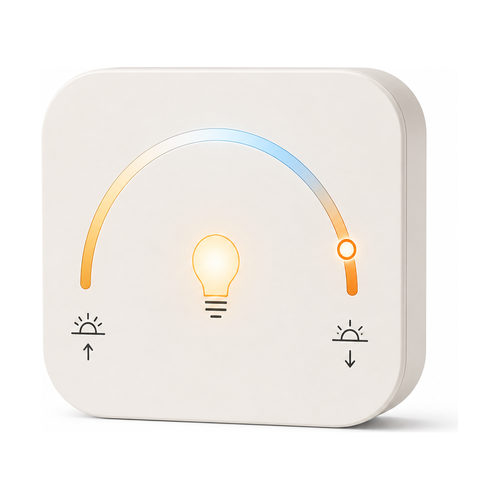
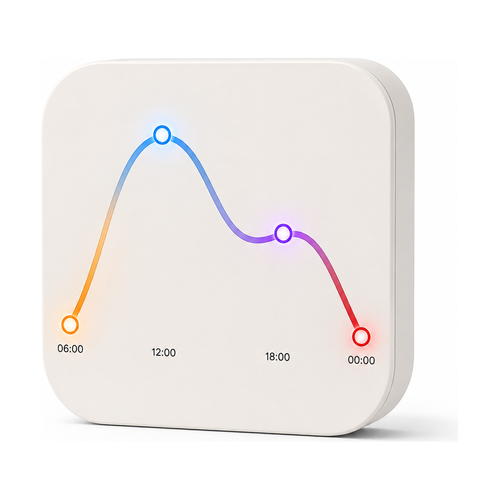
artwork: the Curve light gets its own, and no placeholders remain
The Curve light split out of the circadian light in 0.5.0 and shipped with that
driver's icon and picture. Athom's automated reviewer flags byte-identical
assets between drivers as reuse, so it was tracked as a review finding in four
places rather than tolerated. It now has its own masters and the finding is
closed: `PENDING_ARTWORK` in assets.test.ts is empty, and every icon is
compared against every other with no exemption.

The mark is a four-point curve over a row of hour ticks — deliberately not a
variation on the circadian arc, because the two device types say different
things: one hands you the shape of the day, the other hands you every point.
The picture is the same device body carrying that curve with four coloured
points. Canvas fit came from `--measure` (ink 292x291 of 512).

Two things about it are recorded rather than left to be rediscovered:

- The device master is square (1254px) where every other is landscape. Harmless
  — the crop is content-driven, so a master's aspect never reaches a shipped
  file — and written down so nobody reframes it for no reason.
- It carries four hour labels, which breaks the no-numerals rule the brief
  applies to every device shot. Checked at 75px: the labels are illegible
  exactly as that rule predicts, but they degrade into a faint tick row rather
  than visible broken text, and the curve carries the meaning alone. Kept
  deliberately, argued in provenance.md and asset-spec.md, with the fix named
  if a reviewer objects.
[…]

diff --git a/test/unit/assets.test.ts b/test/unit/assets.test.ts
@@ -238,20 +238,20 @@ describe('icons', () => {
   });
 
   /**
-   * Icons and images the curve light SHARES with the circadian light, pending its
-   * own artwork.
+   * Icons and images a driver SHARES with another, pending its own artwork.
    *
-   * The two device types split out of one, and the second shipped with the
-   * first's graphics. Both of the circadian masters are real now, so what the
-   * curve light ships is a COPY of finished artwork rather than a stand-in — it
-   * looks right and is still a review finding, because Athom's reviewer flags
-   * byte-identical icons as reuse. So it is listed here rather than tolerated
-   * silently, and the list is what a `git grep` finds when the artwork is drawn.
+   * **Deliberately empty, and that is the point.** The curve light split out of
+   * the circadian light in 0.5.0 and shipped with its graphics; this set is what
+   * held that review finding — Athom's reviewer flags byte-identical icons as
+   * reuse — visible rather than tolerated silently. The curve light got its own
+   * master before release, so the entry is gone and every icon below is now
+   * compared against every other with no exemption.
    *
-   * **Removing an entry from this list is the definition of done for that
-   * artwork.** Do not add to it.
+   * Keep it empty. An entry here is a promise to draw something, and the test at
+   * the foot of this file asserts each one names a real icon target, so the list
+   * cannot outlive what it excuses.
    */
-  const PENDING_ARTWORK = new Set(['driver curve']);
+  const PENDING_ARTWORK = new Set<string>();
 
   test('no two icons share a mark, except artwork not yet drawn', () => {
     // The one icon rule the automated reviewer does enforce: reuse is a finding

diff --git a/artwork/export-assets.py b/artwork/export-assets.py
@@ -15,19 +15,13 @@ reframe the subject. Everything here is a function of the masters and this file.
     masters/remote-remote-icon-master.svg -> drivers/controller/assets/icon.svg
     masters/schedule-icon-master.svg      -> drivers/schedule/assets/icon.svg
     masters/circadian-icon-master.svg     -> drivers/circadian/assets/icon.svg
-                                          -> drivers/curve/assets/icon.svg   (PLACEHOLDER)
+    masters/curve-icon-master.svg         -> drivers/curve/assets/icon.svg
     masters/app-hero-master.png           -> assets/images/*          + the README banner
     masters/remote-device-master.png      -> drivers/controller/assets/images/*
     masters/schedule-device-master.png    -> drivers/schedule/assets/images/*
     masters/circadian-device-master.png   -> drivers/circadian/assets/images/*
-                                          -> drivers/curve/assets/images/*   (PLACEHOLDER)
+    masters/curve-device-master.png       -> drivers/curve/assets/images/*
 
-The curve light split out of the circadian light and ships with its artwork until
-its own is drawn. Both circadian masters are real, so the curve light ships a COPY
-of finished artwork rather than a stand-in — it looks right and is still a review
-finding, because Athom's reviewer flags byte-identical icons as reuse. So it is
-listed here and in test/unit/assets.test.ts's PENDING_ARTWORK rather than
-tolerated silently. Removing both entries is the definition of done.
     masters/logo-bitmap-original.png      -> nothing; it is the palette's source
 
 Homey's sizes, and which of them are actually enforced:
@@ -110,17 +104,12 @@ ICONS = [
         'stroke': 7.3,
     },
     {
-        # PLACEHOLDER: the same master as the circadian light's, because the curve
-        # light split out of it and has no artwork of its own yet. Byte-identical
-        # icons are a review finding, which is why the pair is listed in
-        # test/unit/assets.test.ts's PENDING_ARTWORK. Give this its own master and
-        # delete that entry.
-        'master': 'circadian-icon-master.svg',
+        'master': 'curve-icon-master.svg',
         'out': ROOT / 'drivers' / 'curve' / 'assets' / 'icon.svg',
-        'title': 'Circadian light',
-        'desc': 'A lightbulb below a daylight arc, between a sunrise and a sunset.',
-        'fit': (3.1208, -318.9, -318.9),
-        'stroke': 7.3,
+        'title': 'Curve light',
+        'desc': 'A four-point curve over a row of hour ticks.',
+        'fit': (3.0247, -294.3, -294.3),
+        'stroke': 5.3,
     },
 ]
 
@@ -151,8 +140,7 @@ DEVICES = [
         'out': ROOT / 'drivers' / 'circadian' / 'assets' / 'images',
     },
     {
-        # PLACEHOLDER, as above.
-        'master': 'circadian-device-master.png',
+        'master': 'curve-device-master.png',
         'out': ROOT / 'drivers' / 'curve' / 'assets' / 'images',
     },
 ]

diff --git a/artwork/asset-spec.md b/artwork/asset-spec.md
@@ -24,6 +24,10 @@ which of these rules a validator enforces versus a human reviewer, is in
 | `drivers/controller/assets/images/{small,large,xlarge}.png` | Photo of a remote | Device rows, and the "supported devices" grid on the App Store page |
 | `drivers/schedule/assets/icon.svg` | Line-art stopwatch | This device type's icon when adding a device, and on its tile afterwards |
 | `drivers/schedule/assets/images/{small,large,xlarge}.png` | Photo of a plug-in timer | The same two places |
+| `drivers/circadian/assets/icon.svg` | Line-art bulb under a daylight arc | This device type's icon when adding a device, and on its tile afterwards |
+| `drivers/circadian/assets/images/{small,large,xlarge}.png` | Render of a device showing the warm-to-cool arc | The same two places |
+| `drivers/curve/assets/icon.svg` | Line-art four-point curve over hour ticks | This device type's icon when adding a device, and on its tile afterwards |
+| `drivers/curve/assets/images/{small,large,xlarge}.png` | Render of a device showing a four-point coloured curve | The same two places |
 | `artwork/readme/banner.png` | The hero photograph with the logo on a rounded violet tile | The top of `README.md`. Ships nowhere; built by the same script |
 
 Rules, for whoever draws or generates the next set:
@@ -37,7 +41,7 @@ Rules, for whoever draws or generates the next set:
 - **`xlarge` is optional** and no validator ever opens it, but ship it: it is what a
   high-resolution screen gets.
 
-## Prompts for the four photographs
+## Prompts for the five images
 
 The icons come from the SVG masters, so only the photographs need generating. Each prompt carries its
 own app context and palette, so one block can be pasted into a generator on its own. Generate larger
@@ -91,21 +95,16 @@ same crop treatment.
 > matching the neutral white-ground studio look of the remote in the app's other device picture. No
 > numerals, no text, no logos, no branding, no hand, no props, no watermark.
 
-**4. Circadian device** — for `drivers/circadian/assets/images/*`, and currently ALSO
-for `drivers/curve/assets/images/*` until that artwork is drawn. The Curve light split out of the
-circadian light in 0.5.0 and has no artwork of its own yet; byte-identical driver
-images are a review finding, so the pair is recorded in `provenance.md`
-and listed in `test/unit/assets.test.ts`'s `PENDING_ARTWORK`. A fifth prompt for the
-Curve light — the same device body showing a distinctly coloured light rather than a
-warm white — is what closes it. Landscape, 1500×1050 or larger; same crop treatment.
+**4. Circadian device** — for `drivers/circadian/assets/images/*`. Landscape, 1500×1050 or larger;
+the crop finds itself.
 
 **Delivered 27 August 2026, and it took a different subject to the one specified below.** The brief
 asked for a frosted-globe bulb on a base; what ships is the driver's own MARK rendered onto a device
 body — a white rounded square carrying the warm-to-cool arc, a lit bulb and the sunrise and sunset
-glyphs, on studio white with a soft contact shadow. That is the better answer and is what the
-Curve light's fifth prompt should follow: the icon and the picture now show the same thing, so the
-device type reads the same in a driver list as it does on a tile, and the arc carries the
-warm-to-cool idea more legibly at 75×75 than a gradient across a globe did. **The exact prompt text
+glyphs, on studio white with a soft contact shadow. That is the better answer, and prompt 5 below
+followed it: the icon and the picture now show the same thing, so a device type reads the same in a
+driver list as it does on a tile, and the arc carries the warm-to-cool idea more legibly at 75×75
+than a gradient across a globe did. **The exact prompt text
 was not captured** — recorded as a gap rather than reconstructed, on the same principle that keeps
 `provenance.md` from inventing a model name.
 
@@ -125,17 +124,45 @@ The subject brief, for whoever redraws it or draws the Curve light's:
 > the arc's warm-to-cool shift still readable at 75×75. No text, no numerals, no logos, no branding,
 > no resemblance to any real product, no hand, no props, no packaging, no watermark.
 
+**5. Curve device** — for `drivers/curve/assets/images/*`. Delivered **27 August 2026**, and it is
+what closed the last placeholder in the app. Same device body as the circadian light, showing what
+that device type is *for*: named points you place yourself, each able to carry a colour rather than
+a warmth. **The exact prompt text was not captured**, same gap as prompt 4; the brief below is
+written from what shipped.
+
+> Device picture for the part of Lightkeeper that hands the whole day to the user — every point,
+> every time, and a colour instead of a warmth at any point. The object that stands for it is a wall
+> device whose face shows a curve the user drew.
+>
+> Product render on a pure white background. The same original generic square wall unit as the
+> circadian device picture — generously rounded corners, matte warm-white body, three-quarter view
+> from the left so the side face reads as depth. On its front, a smooth curve across the face with
+> four glowing ring markers on it: amber low at the left end, cool blue at a high apex, violet at a
+> lower second crest, red low at the right end, the line itself gradienting between those colours.
+> Soft even studio light, subtle contact shadow. Whole object with even margin, the curve and its
+> coloured points still readable at 75×75. No logos, no branding, no resemblance to any real
+> product, no hand, no props, no packaging, no watermark.
+
+**It shipped with four hour labels on it — 06:00, 12:00, 18:00, 00:00 — which breaks the no-numerals
+rule below.** Kept deliberately: checked at 75 px the labels are illegible exactly as that rule
+predicts, but they degrade into a faint tick row rather than visible broken text, and the curve with
+its coloured points carries the meaning alone. Recorded rather than quietly excepted, in
+[`provenance.md`](provenance.md) too. If a reviewer objects, re-render the same composition without
+the labels; nothing else changes. **Do not add numerals to anything else on the strength of this.**
+
 Four things in those prompts are deliberate, so nobody "fixes" them:
 
 - **Every device shot is white-ground product imagery**, so the pictures read as one app and all
-  satisfy the "device on a white background" rule. Two are photographs and the circadian one is a
-  render, because its subject is a virtual device with no physical product to photograph.
+  satisfy the "device on a white background" rule. The remote and the timer are photographs; the
+  circadian and curve devices are renders, because their subjects are virtual devices with no
+  physical product to photograph.
 - **The warm-to-cool shift is a gradient, not two halves.** Two halves read as a novelty product; a
   gradient reads as a colour temperature moving through the day, which is what the device does. On
   the circadian device that gradient runs along the arc, which holds up at 75×75 where a shift
   across a globe did not.
 - **The timer's dial glows but carries no numerals.** The glow says "time" at 75 px where digits would
-  turn to mush, and printed numerals in a store image read as clipart.
+  turn to mush, and printed numerals in a store image read as clipart. The curve device is the one
+  exception in the set, argued above rather than assumed.
 - **No hand in any frame, including the banner.** A hand on a remote describes only half of what the
   app does — that is exactly what the previous banner got wrong.
 

diff --git a/artwork/provenance.md b/artwork/provenance.md
@@ -5,25 +5,18 @@ to a shipped file is lost on the next export. What to produce, and why, is in
 [`asset-spec.md`](asset-spec.md); how Homey consumes it is in
 [`../docs/homey-platform.md`](../docs/homey-platform.md) §10.
 
-## The Curve light's artwork is a PLACEHOLDER
+## Nothing is a placeholder any more
 
-**This is the only outstanding artwork.** The Curve light split out of the circadian light in 0.5.0
-and ships with its graphics: `drivers/curve/assets/` is exported from `circadian-icon-master.svg`
-and `circadian-device-master.png`, the same two masters the circadian light uses. Both of those are
-now real — see below — so what the Curve light ships is a byte-identical *copy* of finished artwork
-rather than a stand-in for missing artwork. It looks right and is still a review finding.
+Every shipped graphic comes from a master drawn for it. The Curve light was the last one outstanding
+— it split out of the circadian light in 0.5.0 and shipped with that driver's graphics, which
+Athom's automated reviewer would have flagged as byte-identical reuse — and it got
+`curve-icon-master.svg` and `curve-device-master.png` of its own on **27 August 2026**, before
+release. `test/unit/assets.test.ts`'s `PENDING_ARTWORK` set is now empty, so every icon is compared
+against every other with no exemption.
 
-That finding is real rather than cosmetic — Athom's automated reviewer flags byte-identical icons
-between drivers as reuse — so it is recorded in three places rather than tolerated silently:
-
-- `artwork/export-assets.py`, at both target entries, marked PLACEHOLDER;
-- `test/unit/assets.test.ts`, as the single entry in `PENDING_ARTWORK`;
-- here.
-
-**Definition of done:** draw `curve-icon-master.svg` and `curve-device-master.png`,
-point both entries in the export script at them, re-export, and delete the
-`PENDING_ARTWORK` entry. The test that asserts every pending entry names a real
-icon target is what stops the list outliving what it excuses.
+**If that ever changes**, record it in all three places rather than one: the target entry in
+`artwork/export-assets.py`, an entry in `PENDING_ARTWORK`, and here. A test asserts each pending
+entry names a real icon target, so the list cannot outlive what it excuses.
 
 
 ## The masters
@@ -33,16 +26,18 @@ icon target is what stops the list outliving what it excuses.
 | `logo-mark-master.svg` | `assets/icon.svg`, and the logo tile on the README banner |
 | `remote-remote-icon-master.svg` | `drivers/controller/assets/icon.svg` |
 | `schedule-icon-master.svg` | `drivers/schedule/assets/icon.svg` |
-| `circadian-icon-master.svg` | `drivers/circadian/assets/icon.svg`, and `drivers/curve/assets/icon.svg` until that artwork is drawn |
+| `circadian-icon-master.svg` | `drivers/circadian/assets/icon.svg` |
+| `curve-icon-master.svg` | `drivers/curve/assets/icon.svg` |
 | `app-hero-master.png` 1499×1049 | `assets/images/*` and `readme/banner.png` |
 | `remote-device-master.png` 1499×1049 | `drivers/controller/assets/images/*` |
 | `schedule-device-master.png` 1500×1049 | `drivers/schedule/assets/images/*` |
-| `circadian-device-master.png` 1499×1049 | `drivers/circadian/assets/images/*`, and `drivers/curve/assets/images/*` until that artwork is drawn |
+| `circadian-device-master.png` 1499×1049 | `drivers/circadian/assets/images/*` |
+| `curve-device-master.png` 1254² | `drivers/curve/assets/images/*` |
 | `logo-bitmap-original.png` 1071² | nothing ships from it; it is the palette's source of truth |
 
 Supplied by the author on **23 August 2026**, replacing a set generated on 12 August 2026. The
 photographs are image-model output from the prompts in
-[`asset-spec.md`](asset-spec.md#prompts-for-the-four-photographs), reviewed to exclude logos,
+[`asset-spec.md`](asset-spec.md#prompts-for-the-five-images), reviewed to exclude logos,
 trademarks, brand-recognisable hardware and text — Homey's review checks that store imagery is not
 manufacturer photography, so that matters. The prompts live there and are not repeated here; this file
 carries the date, the tool and the rights.
@@ -80,11 +75,37 @@ itself on export with no hand-measured box.
 `circadian-icon-master.svg` already in the tree, so the icon was already correct and nothing changed
 there.
 
+## `curve-device-master.png` and `curve-icon-master.svg`
+
+Supplied by the author on **27 August 2026**, generated with **ChatGPT's image model** (OpenAI), in
+the same delivery style as the circadian pair above and checked against the same filter: no logo,
+trademark, brand-recognisable hardware, or resemblance to a real product.
+
+The device master is **1254 × 1254 — square, where every other device master is landscape**. That is
+harmless rather than an oversight: `subject_square()` finds the subject by non-white detection and
+centres it on a white square, so the aspect of the master never reaches a shipped file. It is
+recorded here so nobody "fixes" it into 1500 × 1050 and reframes the crop for no reason.
+
+**It carries text, and the brief says not to.** The four hour labels — 06:00, 12:00, 18:00, 00:00 —
+break the "no text, no numerals" rule that
+[`asset-spec.md`](asset-spec.md#prompts-for-the-five-images) applies to every device shot, for a
+stated reason: numerals turn to mush at 75 px and printed type in a store image reads as clipart.
+Checked at 75 px, both halves of that prediction hold — the labels are illegible — **and the image
+still works**, because they degrade into a faint tick row under the curve rather than into visible
+broken text, and the curve with its four coloured points carries the whole meaning on its own. Kept
+deliberately, not by omission. If Athom's reviewer objects, the fix is a re-render of the same
+composition with the labels dropped; nothing else changes.
+
+The icon is a four-point curve over a row of hour ticks — a different mark from the circadian
+light's arc-and-bulb, which is what the two device types needed: one says "the shape of the day is
+handled for you", the other says "every point is yours". Its canvas fit came from `--measure`
+(`ink 292×291 of 512`), stored in the script so a normal export needs no browser.
+
 ## Icon weight
 
-All four icons ship at `stroke-width` 40 on the 960 canvas, Homey's house weight. Fitted to the
-canvas the masters' own strokes are 31 (logo), 22 (stopwatch), 20 (sun) and 14 (remote): four different
-weights, and the remote a hairline at the 32 px Homey renders. Judged from a contact sheet at
+All five icons ship at `stroke-width` 40 on the 960 canvas, Homey's house weight. Fitted to the
+canvas the masters' own strokes are 31 (logo), 23 (sun), 22 (stopwatch), 16 (curve) and 14 (remote):
+five different weights, and the remote a hairline at the 32 px Homey renders. Judged from a contact sheet at
 32/40/56 px, on white and as a white mask on the brand violet — which is how Homey actually draws
 them. `export-assets.py --weight drawn` reproduces the masters' own weights if the decision is ever
 revisited.

diff --git a/README.md b/README.md
@@ -95,9 +95,6 @@ pick a circadian light when you just want "warm at night, cool in the day".
 </tr>
 </table>
 
-> The Curve light borrows the circadian light's picture until its own is drawn.
-> [`artwork/provenance.md`](artwork/provenance.md) tracks it.
-
 Every one of them has a **Test** button in pairing that drives the real lights immediately, so you
 know it works before you save anything. For the first two, Lightkeeper writes the Flows underneath
 and keeps them maintained — add a lamp to a room a device points at and it follows; delete the

diff --git a/CHANGELOG.md b/CHANGELOG.md
@@ -29,9 +29,6 @@ Changed:
   Curve light away.
 - One registry serves both, so there is still exactly one 60-second timer for every curve-driven
   device on the Homey.
-- The Curve light ships with the circadian light's artwork as a placeholder. `assets.test.ts` lists
-  the pair as pending rather than tolerating it silently; removing that entry is the definition of
-  done for the artwork.
 
 Fixed — schedules:
 
